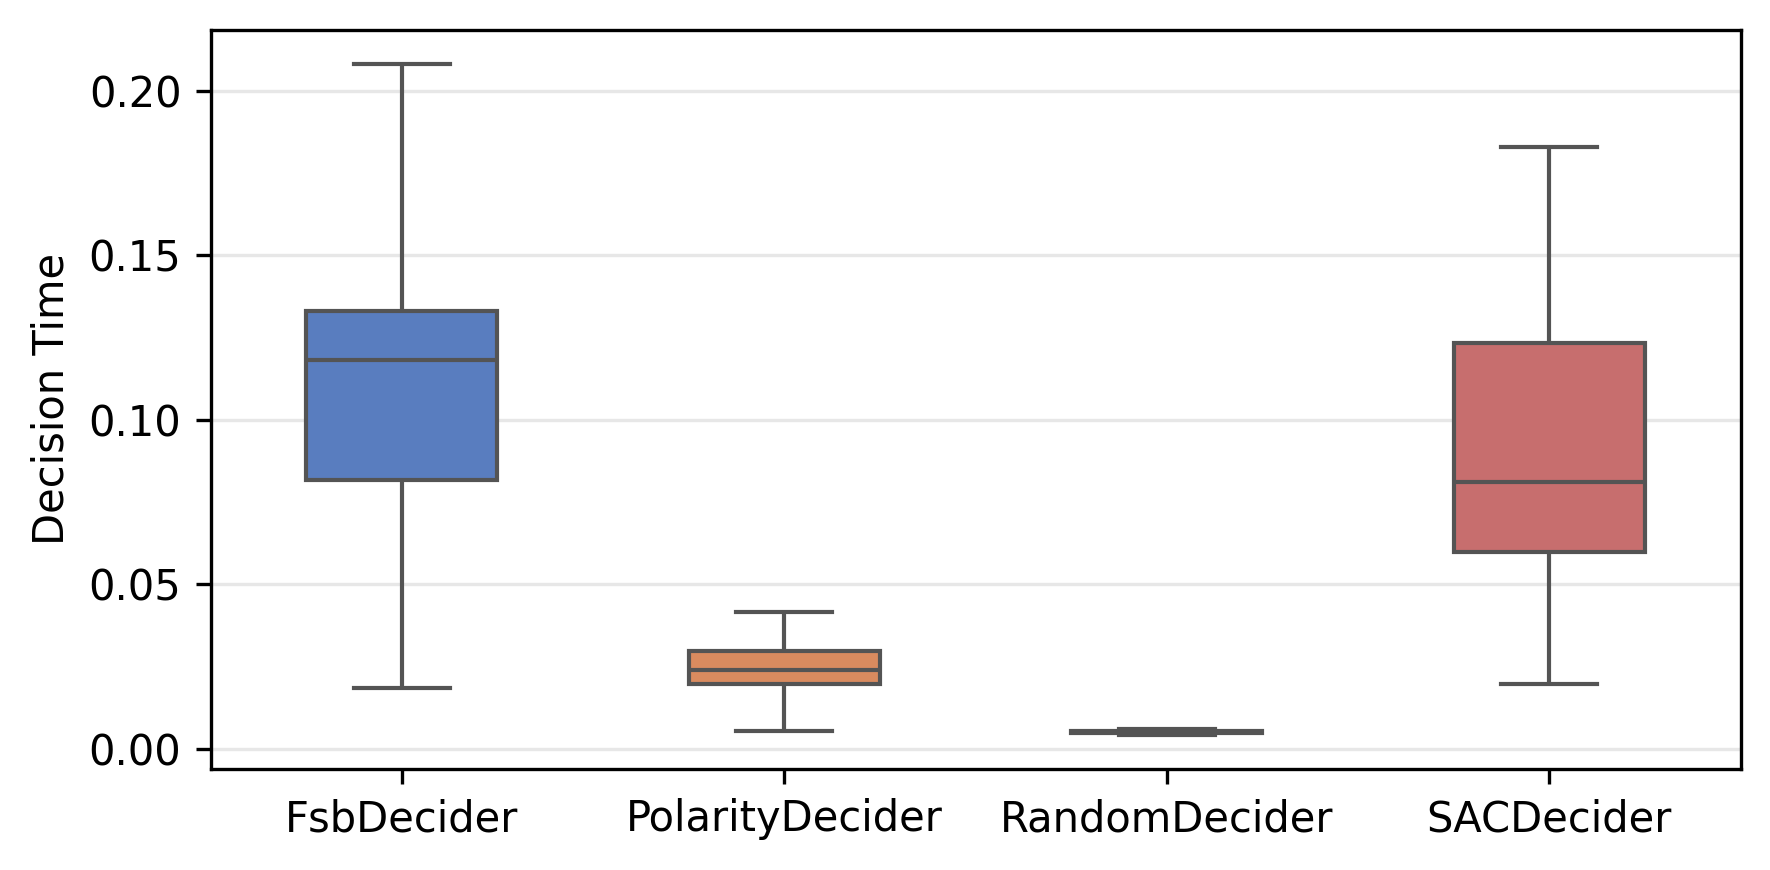
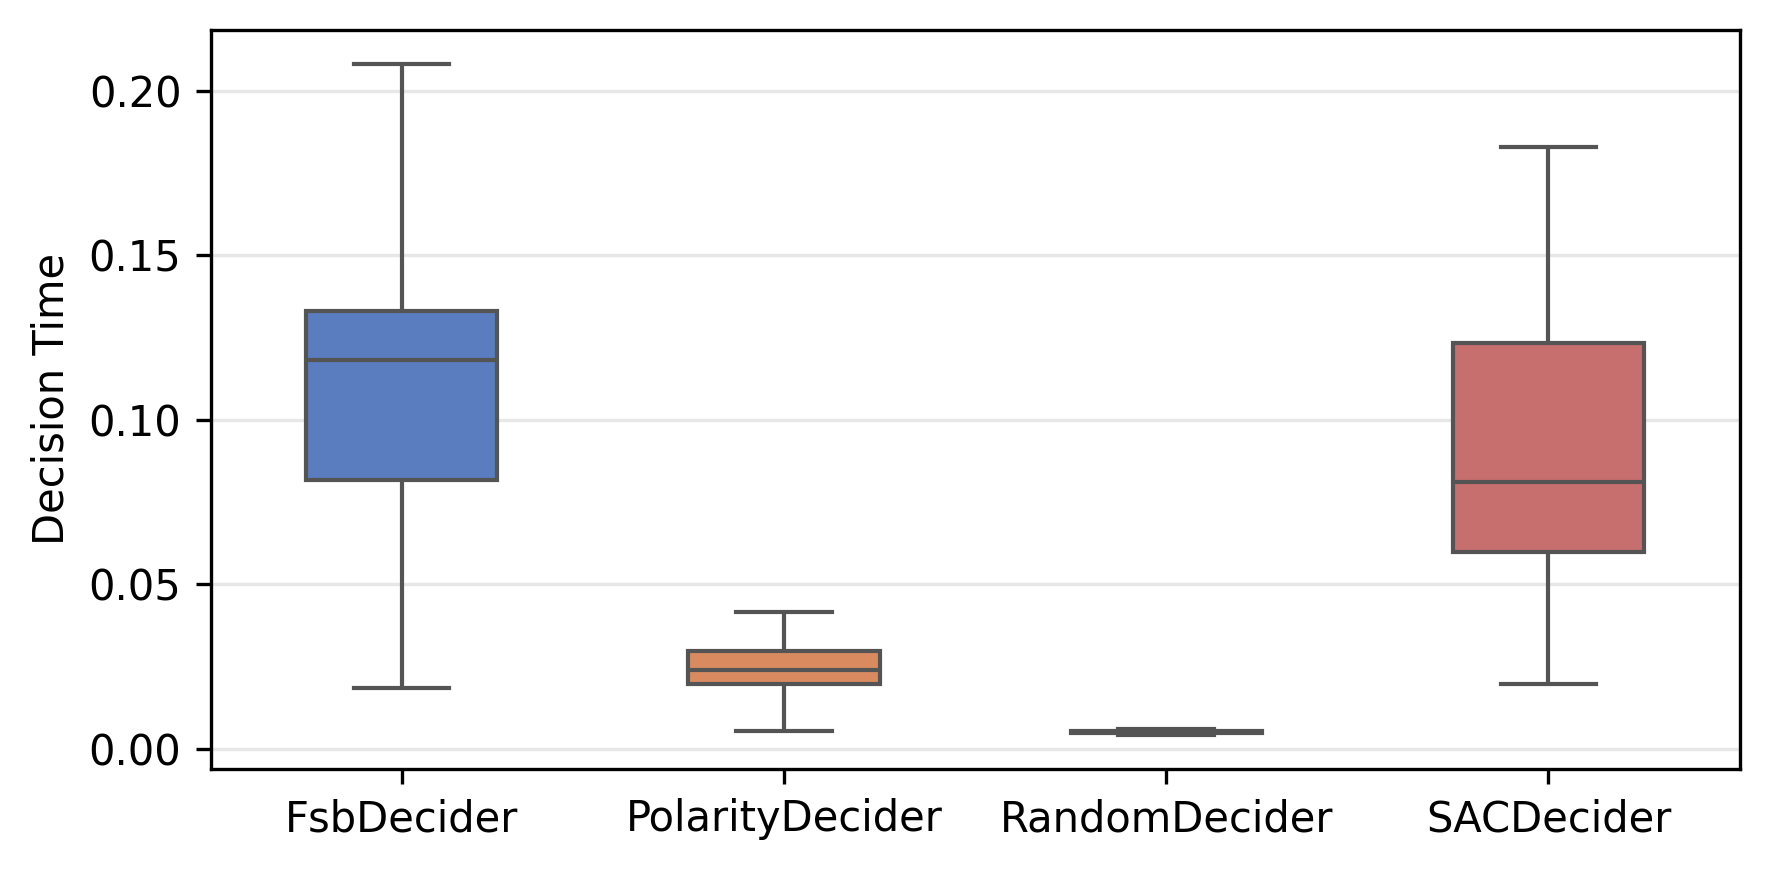
updates

diff --git a/plot/plot_dnnv.py b/plot/plot_dnnv.py
@@ -54,7 +54,7 @@ def extract_data(args, metric='total_time', filter_invalid=True, filter_unknown=
         df['solver'] = solver_class.__name__
         
         # Add network name for the first len(df) rows from test dataset
-        df['network'] = df['episode'].apply(lambda ep: network_names[ep].split('_')[-1].split('.')[0]) #  if ep < len(network_names) else 'unknown'
+        df['network'] = df['episode'].apply(lambda ep: network_names[ep-1].split('_')[-1].split('.')[0]) #  if ep < len(network_names) else 'unknown'
         
         dfs.append(df)
         # solved = len(df[df['done'] == True])
@@ -93,7 +93,7 @@ def extract_data(args, metric='total_time', filter_invalid=True, filter_unknown=
 def plot_cactus(args, metric='total_time'):
     df = extract_data(args, metric)
     
-    plt.figure(figsize=(5, 3))
+    plt.figure(figsize=(4, 3))
     
     # Set color palette
     colors = sns.color_palette("muted", n_colors=len(df.columns))
@@ -176,7 +176,7 @@ def plot_box(args, metric='value', filter_invalid=False, filter_unknown=True, sh
     # Filter out unsolved instances (value = 0)
     df_long = df_long[df_long[metric] > 0]
     
-    plt.figure(figsize=(6, 3))
+    plt.figure(figsize=(5, 3))
     sns.boxplot(data=df_long, x='solver', y=metric, palette='muted', showfliers=showfliers, width=0.5)
     
     plt.xlabel('')
@@ -191,6 +191,7 @@ def plot_box(args, metric='value', filter_invalid=False, filter_unknown=True, sh
     
 if __name__ == '__main__':
     args = get_args()
+    args.figure_dir = '../../figure/evaluation'
     plot_cactus(args, metric='total_time')
     plot_cactus(args, metric='value')
     plot_cactus(args, metric='active_neuron')
